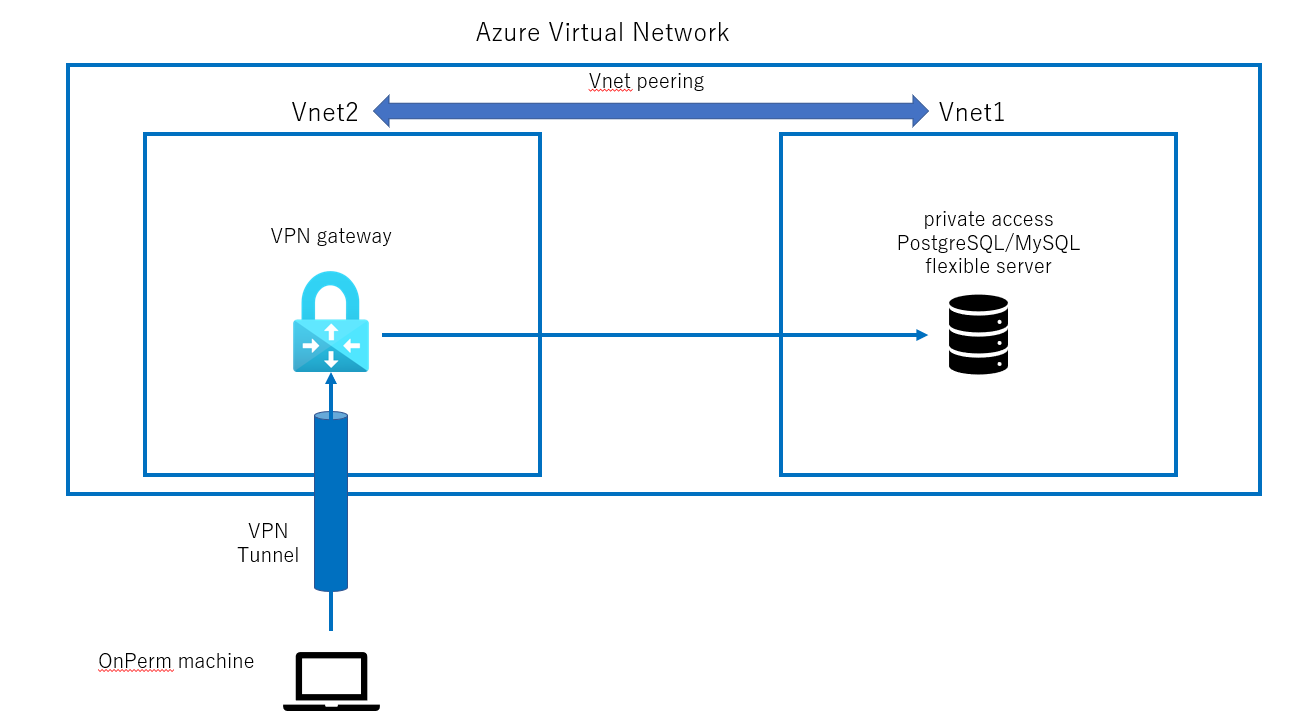
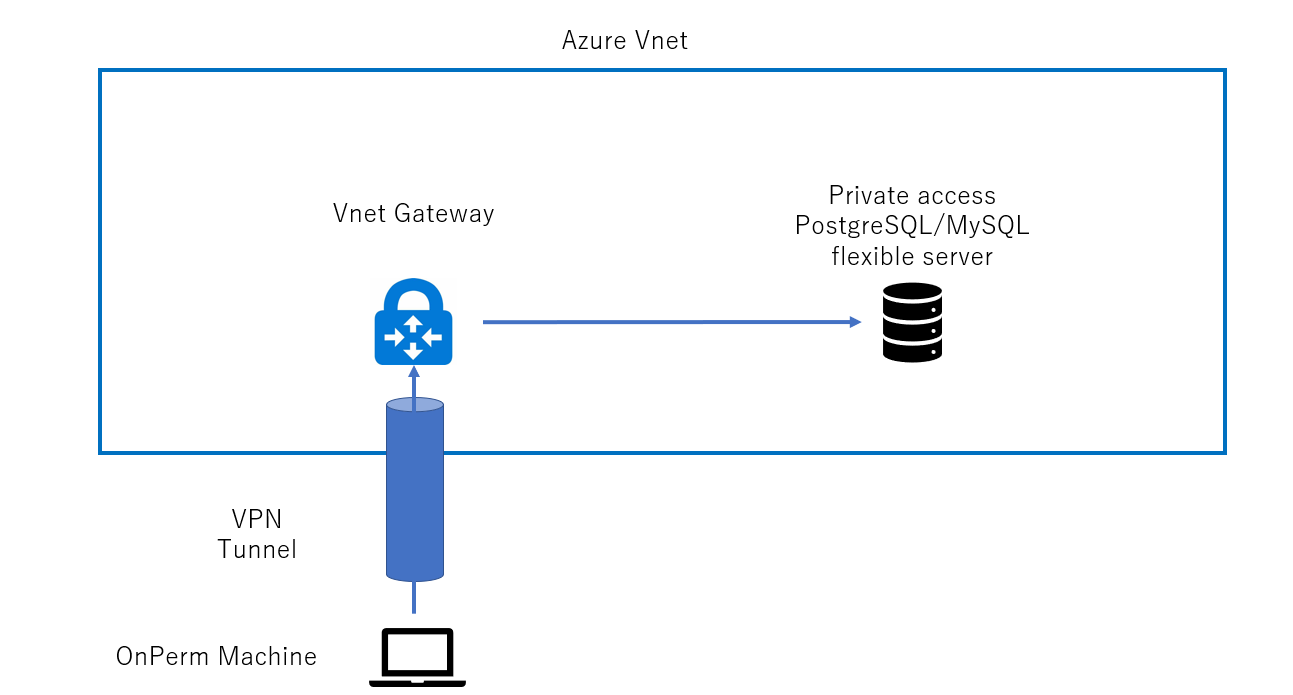
fix picture

Changed region(s): [[0.031, 0.0302, 0.9915, 0.9971]]

diff --git a/_posts/2023-02-07-build-p2s-vpn.md b/_posts/2023-02-07-build-p2s-vpn.md
@@ -21,25 +21,19 @@ You can find more information about P2S VPN at [here][link1].
 
 #### Let's ROCK!
 
-##### Create a new RG
+##### Create a new subnet in your vnet
 {% highlight shell %}
-az group create --name handsOn --location japaneast
-{% endhighlight %}
-
-##### Create a new VNET and subnet
-{% highlight shell %}
-az network vnet create --name handsOnVnet --resource-group handsOn --address-prefixes 10.100.0.0/16
-az network vnet subnet create --name gatewaySubnet --vnet-name handsOnVnet --resource-group handsOn --address-prefixes 10.100.1.0/24
+az network vnet subnet create --name gatewaySubnet --vnet-name <your-vent-name> --resource-group <your-RG> --address-prefixes <your-ip-range>
 {% endhighlight %}
 
 #### Create a public IP address
 {% highlight shell %}
-az network public-ip create --name gatewayIp --resource-group handsOn
+az network public-ip create --name gatewayIp --resource-group <your-RG>
 {% endhighlight %}
 
 ##### Create a new VPN gateway
 {% highlight shell %}
-az network vnet-gateway create --name handsOnGateway --resource-group handsOn --vnet handsOnVnet --public-ip-address gatewayIp --gateway-type Vpn --vpn-type RouteBased
+az network vnet-gateway create --name handsOnGateway --resource-group <your-RG> --vnet <your-vent-name>  --public-ip-address gatewayIp --gateway-type Vpn --vpn-type RouteBased
 {% endhighlight %}
 
 #### Create a root certificate
